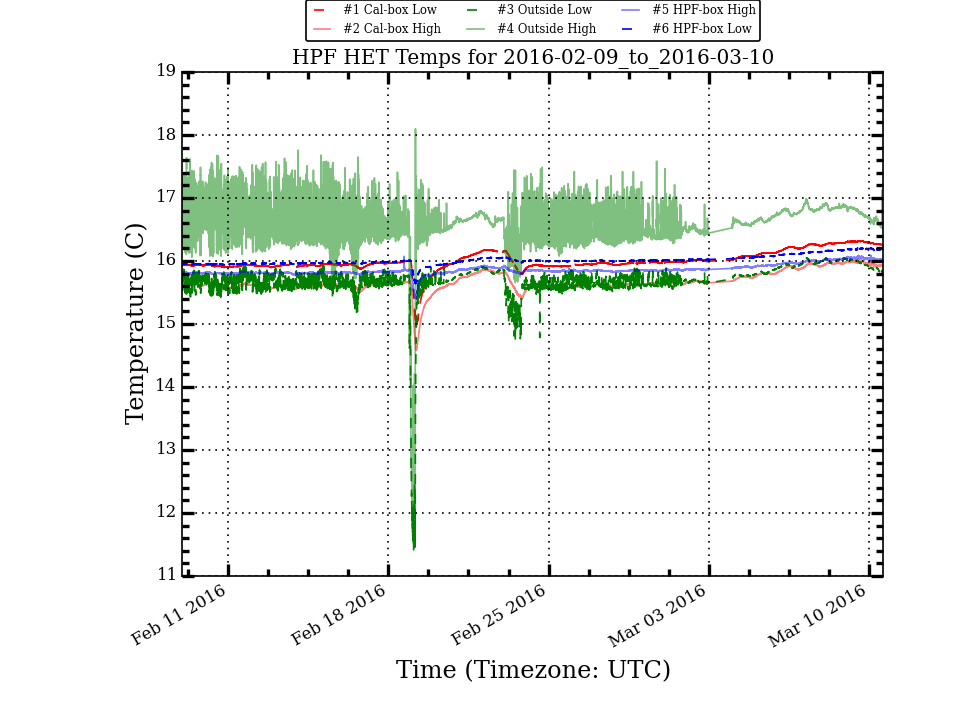
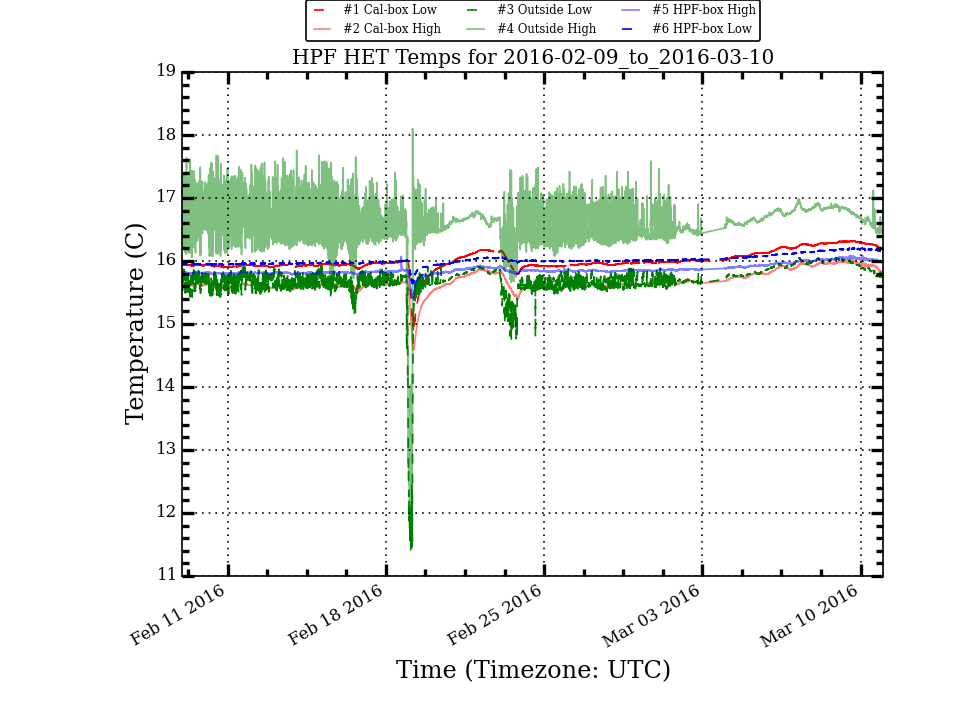
Update HPF Temp Plots

diff --git a/research/hpf_temps/plots/LakeShoreLogTotal_week_stats.html b/research/hpf_temps/plots/LakeShoreLogTotal_week_stats.html
@@ -11,43 +11,43 @@
  <TR>
   <TD>Cal_Low</TD>
   <TD>16.208</TD>
-  <TD>0.087</TD>
-  <TD>16.242</TD>
+  <TD>0.085</TD>
+  <TD>16.234</TD>
   <TD>16.321</TD>
   <TD>16.016</TD>
   <TD>0.305</TD>
  </TR>
  <TR>
   <TD>Cal_High</TD>
-  <TD>15.885</TD>
-  <TD>0.090</TD>
-  <TD>15.919</TD>
+  <TD>15.884</TD>
+  <TD>0.088</TD>
+  <TD>15.914</TD>
   <TD>16.026</TD>
   <TD>15.679</TD>
   <TD>0.347</TD>
  </TR>
  <TR>
   <TD>Out_Low</TD>
-  <TD>15.911</TD>
-  <TD>0.090</TD>
-  <TD>15.926</TD>
+  <TD>15.903</TD>
+  <TD>0.094</TD>
+  <TD>15.915</TD>
   <TD>16.051</TD>
   <TD>15.713</TD>
   <TD>0.338</TD>
  </TR>
  <TR>
   <TD>Out_High</TD>
-  <TD>16.740</TD>
-  <TD>0.106</TD>
-  <TD>16.754</TD>
+  <TD>16.727</TD>
+  <TD>0.118</TD>
+  <TD>16.746</TD>
   <TD>17.124</TD>
-  <TD>16.515</TD>
-  <TD>0.609</TD>
+  <TD>16.437</TD>
+  <TD>0.687</TD>
  </TR>
  <TR>
   <TD>HPF_High</TD>
-  <TD>15.982</TD>
-  <TD>0.053</TD>
+  <TD>15.983</TD>
+  <TD>0.052</TD>
   <TD>15.994</TD>
   <TD>16.091</TD>
   <TD>15.880</TD>
@@ -55,9 +55,9 @@
  </TR>
  <TR>
   <TD>HPF_Low</TD>
-  <TD>16.127</TD>
+  <TD>16.129</TD>
   <TD>0.051</TD>
-  <TD>16.135</TD>
+  <TD>16.139</TD>
   <TD>16.212</TD>
   <TD>16.034</TD>
   <TD>0.178</TD>

diff --git a/research/hpf_temps/plots/LakeShoreLogTotal_month_stats.html b/research/hpf_temps/plots/LakeShoreLogTotal_month_stats.html
@@ -10,53 +10,53 @@
  </TR>
  <TR>
   <TD>Cal_Low</TD>
-  <TD>16.000</TD>
-  <TD>0.162</TD>
-  <TD>15.961</TD>
+  <TD>16.003</TD>
+  <TD>0.163</TD>
+  <TD>15.963</TD>
   <TD>16.321</TD>
   <TD>14.958</TD>
   <TD>1.363</TD>
  </TR>
  <TR>
   <TD>Cal_High</TD>
-  <TD>15.671</TD>
+  <TD>15.674</TD>
   <TD>0.168</TD>
-  <TD>15.631</TD>
+  <TD>15.632</TD>
   <TD>16.026</TD>
   <TD>14.586</TD>
   <TD>1.440</TD>
  </TR>
  <TR>
   <TD>Out_Low</TD>
-  <TD>15.683</TD>
-  <TD>0.350</TD>
-  <TD>15.688</TD>
+  <TD>15.684</TD>
+  <TD>0.348</TD>
+  <TD>15.691</TD>
   <TD>16.051</TD>
   <TD>11.376</TD>
   <TD>4.675</TD>
  </TR>
  <TR>
   <TD>Out_High</TD>
-  <TD>16.552</TD>
-  <TD>0.402</TD>
-  <TD>16.574</TD>
+  <TD>16.551</TD>
+  <TD>0.400</TD>
+  <TD>16.570</TD>
   <TD>18.099</TD>
   <TD>11.861</TD>
   <TD>6.238</TD>
  </TR>
  <TR>
   <TD>HPF_High</TD>
-  <TD>15.863</TD>
-  <TD>0.080</TD>
-  <TD>15.843</TD>
+  <TD>15.865</TD>
+  <TD>0.081</TD>
+  <TD>15.844</TD>
   <TD>16.091</TD>
   <TD>15.402</TD>
   <TD>0.689</TD>
  </TR>
  <TR>
   <TD>HPF_Low</TD>
-  <TD>16.014</TD>
-  <TD>0.075</TD>
+  <TD>16.016</TD>
+  <TD>0.077</TD>
   <TD>16.001</TD>
   <TD>16.212</TD>
   <TD>15.634</TD>
